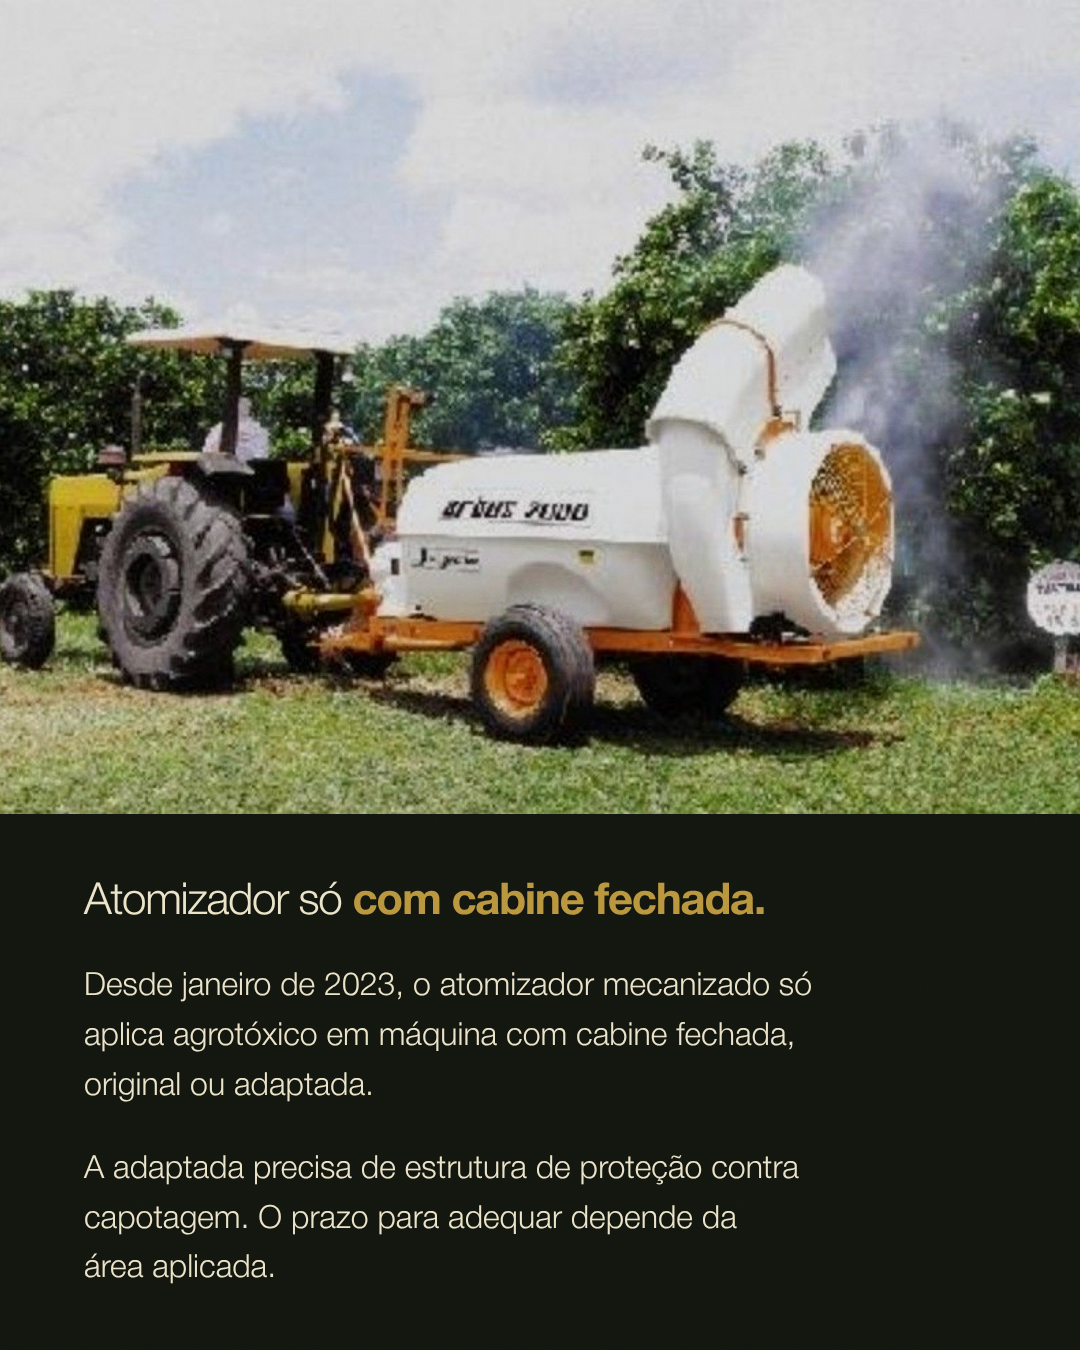
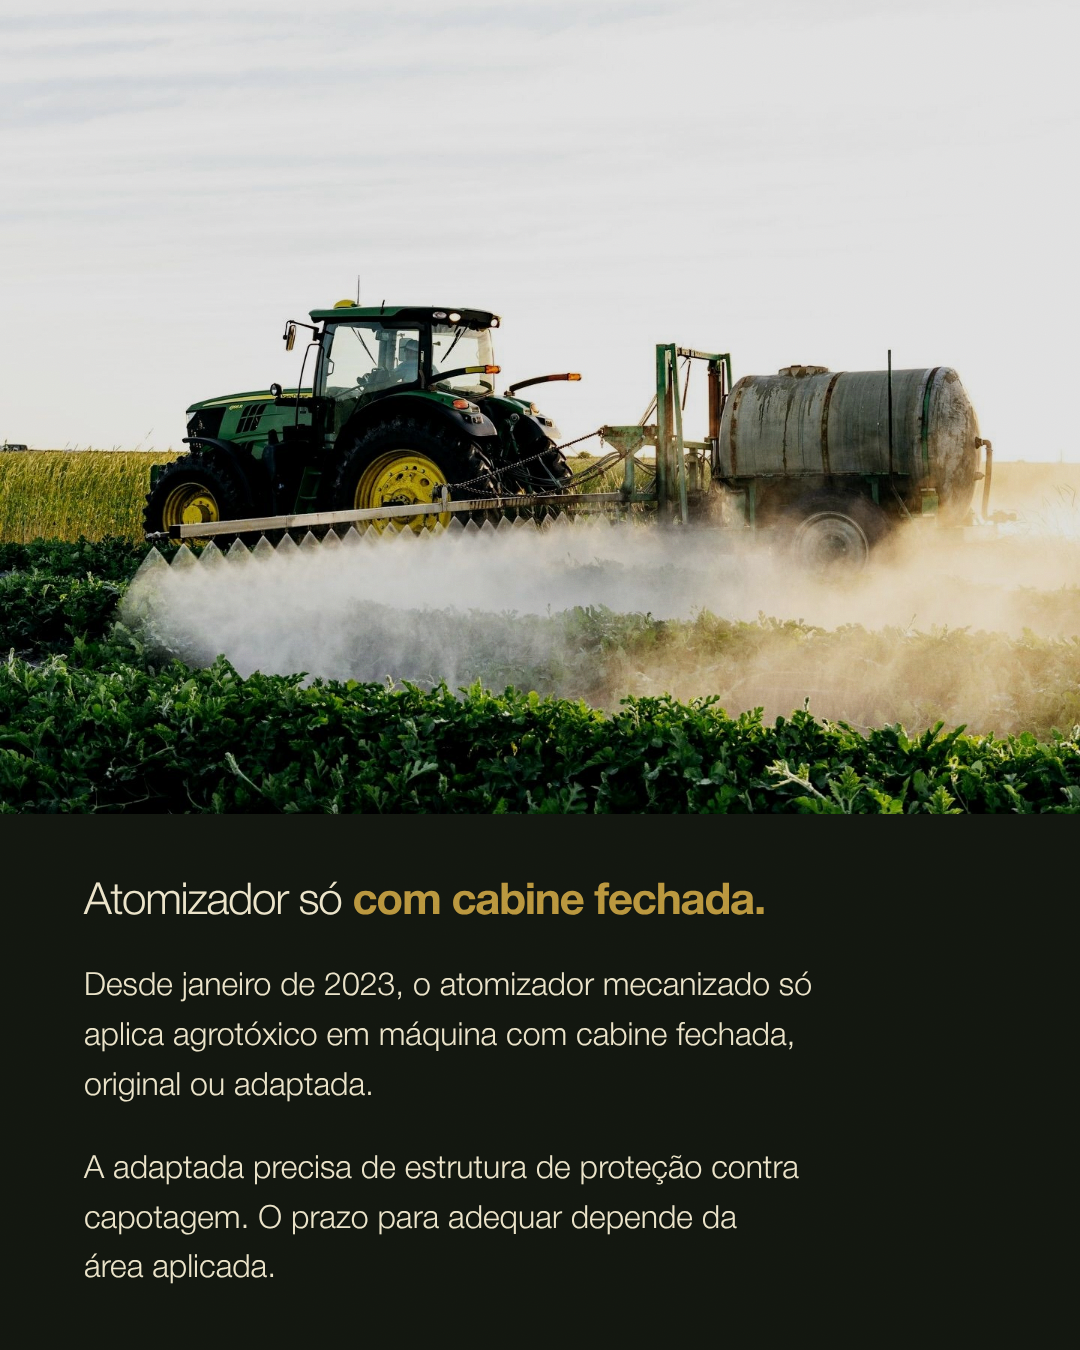
30/11: foto nova na tela 3
Claude-Session: https://claude.ai/code/session_01P4d7pDXSyhkanGB3aZGg4D

diff --git a/docs/gorayeb/diario.md b/docs/gorayeb/diario.md
@@ -1475,3 +1475,4 @@ legenda do estático de 15/11 também foi escrita (texto meu, pra Dra. Elisa).
 - 8 telas na nova IDV, texto do roteiro aprovado sem mudança. Capa C2 (foto escurecendo) em HTML, `modelos/nr31-atualizacoes-capa.html`, selo Área Trabalhista. Fecho F1 com listras.
 - Prazos da cabine fechada viraram barras (120, 96, 84 e 60 meses por área). Foto em 4 telas, todas novas do Pinterest, créditos em `img/_creditos-pinterest.tsv`.
 - Balanceamento aplicado: apoio da capa em 28px pra não sobrar "aberto"; remate da tela 5 quebrado na vírgula; lista da tela 5 virou pílulas com ícone pra não sobrar "do vento".
+- 30/11, tela 3: foto do atomizador trocada a pedido do Victor (estava ruim) por trator de cabine fechada aplicando, img/trator-cabine-nevoa.jpg.
